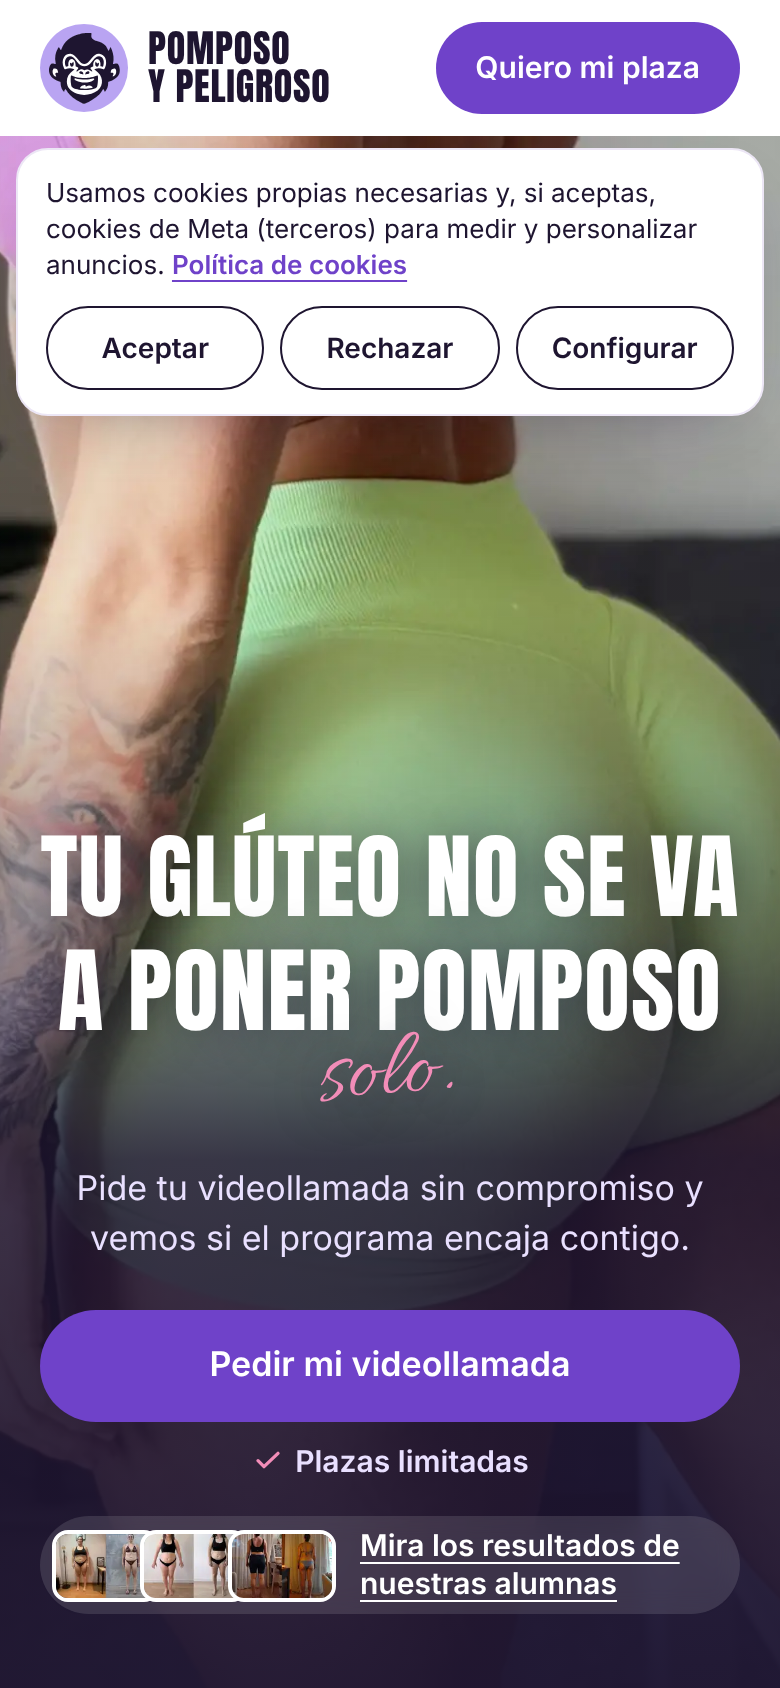
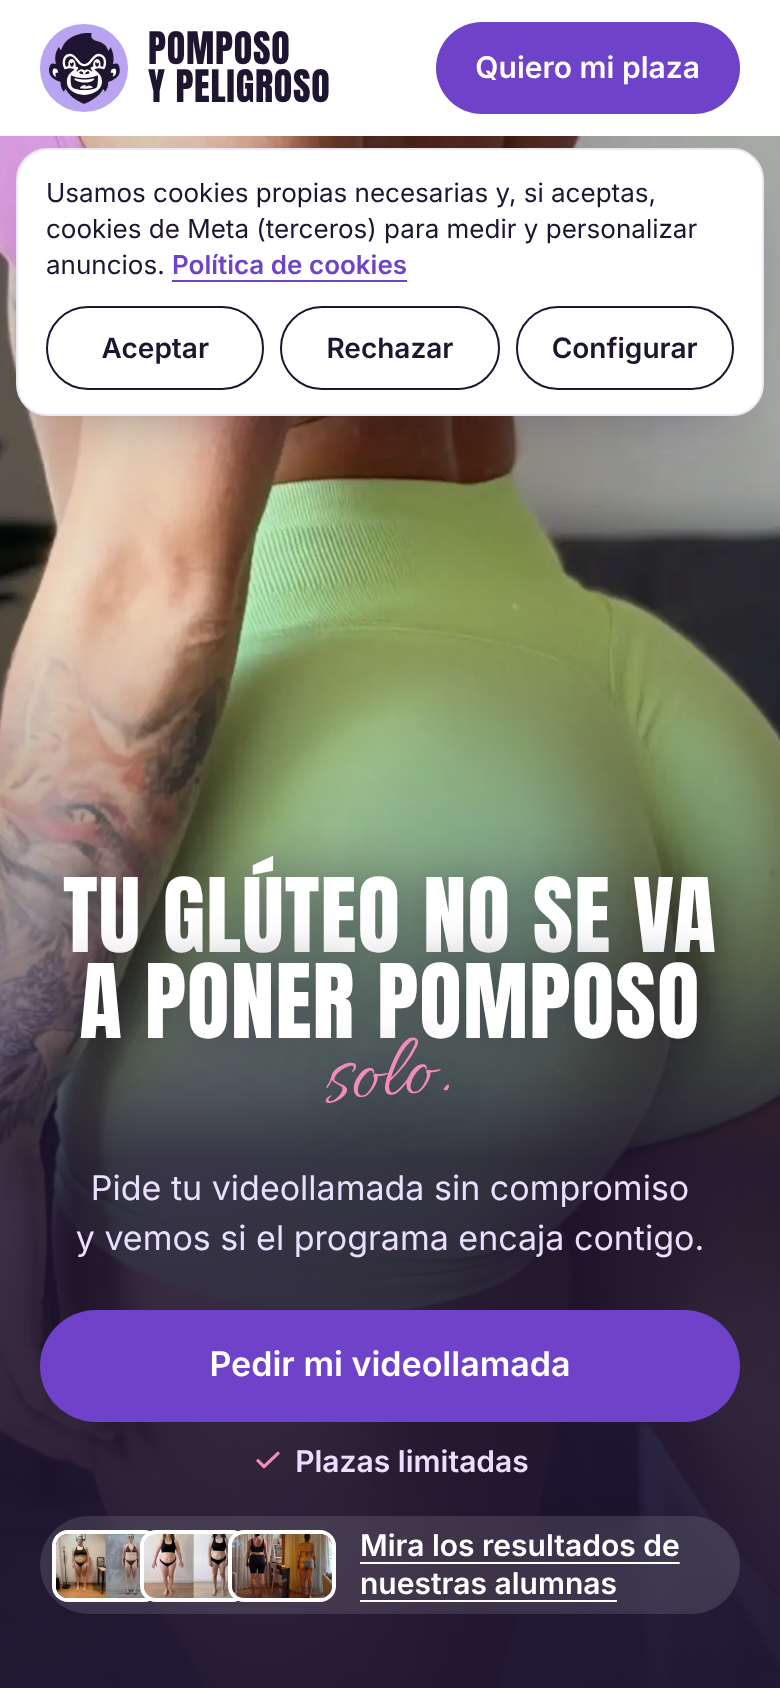
Hero sin saltos al cargar las fuentes: el titular espera a Anton y Allura
En producción el cambio de fuente del titular movía el hero (CLS de 0,008 a
0,014 en escritorio y hasta 0,07 en la versión de cierre en móvil). Ahora el
titular se pinta cuando sus fuentes están listas (máximo 1,2 s) y el de cierre
va en dos líneas fijas. Prueba nueva con fuentes lentas.

Claude-Session: https://claude.ai/code/session_01SZst7iHLrS1DCv7LNHir6L

Changed region(s): [[0.0615, 0.4621, 0.9538, 0.6469], [0.0923, 0.6777, 0.8923, 0.7701]]

diff --git a/README.md b/README.md
@@ -124,7 +124,7 @@ Tras cambiar una variable hay que volver a desplegar (Deployments → Redeploy) 
 - **Antes de enviar no hay salidas:** ni WhatsApp, ni teléfono, ni email, ni Instagram en la home, la barra fija móvil (un solo botón, al formulario), el footer (marca, enlaces internos, legales, "Configurar cookies" y un CTA al formulario) ni las preguntas frecuentes ("¿Otra duda? Déjanos tu WhatsApp y te la resolvemos" lleva al formulario). Las legales se abren en pestaña nueva y en ellas el contacto va como texto.
 - **Después de enviar:** la tarjeta muestra "Gracias, {nombre}. Te abrimos WhatsApp para que nos escribas ya." con el botón "Abrir WhatsApp". En móvil se abre sola a los 1,5 s (nunca antes de 800 ms desde el `Lead`) con `window.location.href`; en escritorio, solo con el botón (en pestaña nueva). El mensaje resume la solicitud (nombre, edad y experiencia) y añade "Tengo una duda: " si se llegó desde la pregunta de las FAQ. Al volver atrás o recargar se sigue viendo el estado de gracias.
 - **Aviso de error:** si el envío falla por red, el botón de WhatsApp del aviso lleva todos los datos del formulario (lo genera `form.ts`; el HTML no lleva ningún `wa.me`).
-- **Hero según el anuncio:** un script en el `<head>` (`src/layouts/Base.astro`) lee `utm_content` y, si no encaja, `utm_campaign`, y pone `data-ad` en `<html>` antes del primer pintado (se recuerda en la sesión con `pyp_ad_variant`). `Hero.astro` pinta las dos versiones y el CSS muestra la activa, sin saltos. Versiones: `descubrir` (por defecto y campañas con "DESCUBRIR" o "TOFU": el hero de siempre) y `cierre` (campañas con "CIERRE", "RETARGETING", "REMARKETING", "MOFU" o "BOFU": "Tu glúteo no se va a poner pomposo solo.", "Pide tu videollamada sin compromiso..." y "Pedir mi videollamada"). Si la campaña de cierre se llama de otra forma, añade la palabra en `src/data/ad-variants.ts`. En ese archivo está también la tabla de preselección de edad o experiencia por anuncio, vacía hasta conocer los nombres.
+- **Hero según el anuncio:** un script en el `<head>` (`src/layouts/Base.astro`) lee `utm_content` y, si no encaja, `utm_campaign`, y pone `data-ad` en `<html>` antes del primer pintado (se recuerda en la sesión con `pyp_ad_variant`). `Hero.astro` pinta las dos versiones y el CSS muestra la activa, sin saltos. El titular espera a sus fuentes (Anton y Allura, como mucho 1,2 s, clase `fonts-pending`) para que el cambio de fuente no mueva nada; el de cierre va en dos líneas fijas por el mismo motivo. Versiones: `descubrir` (por defecto y campañas con "DESCUBRIR" o "TOFU": el hero de siempre) y `cierre` (campañas con "CIERRE", "RETARGETING", "REMARKETING", "MOFU" o "BOFU": "Tu glúteo no se va a poner pomposo solo.", "Pide tu videollamada sin compromiso..." y "Pedir mi videollamada"). Si la campaña de cierre se llama de otra forma, añade la palabra en `src/data/ad-variants.ts`. En ese archivo está también la tabla de preselección de edad o experiencia por anuncio, vacía hasta conocer los nombres.
 
 ## Google Sheets + Apps Script
 

diff --git a/source/qa/INFORME-QA.md b/source/qa/INFORME-QA.md
@@ -10,6 +10,7 @@ Resultados (todo en local sobre el build de producción, con el Apps Script, `/a
 - `npm run test:e2e` (Playwright, 390x844 con el user agent de Instagram en iPhone y 1440x900): 47 pruebas en verde. Cubren el payload idéntico a la referencia aceptando y rechazando cookies, los UTM tras recargar, 1 `Lead` con el mismo `event_id` que la API de conversiones, 0 eventos de navegador sin consentimiento pero sí API de conversiones, `FormStep` sin repetir, `FormError`, reintentos sin `Lead` doble, errores del servidor sin reintento, WhatsApp automático en móvil antes de 2 s y al menos 800 ms después del `Lead`, sin redirección en escritorio, el mensaje de las FAQ, el estado de gracias al volver, las tres versiones del hero con CLS 0 y el botón en la primera pantalla con el aviso de cookies, la barra móvil de un botón, las legales en pestaña nueva sin perder el formulario y el aviso de cookies.
 - `vercel build` local: las páginas siguen siendo estáticas y `api/lead-capi` sale como función (Node 24). Sin `META_CAPI_TOKEN` responde 204 sin llamar a Meta.
 - Lighthouse en la home, mismo servidor para la versión anterior y la nueva: móvil 99-100 / 100 / 100 / 100 (antes 99 / 100 / 100 / 92, CLS 0,003), escritorio 100 / 100 / 100 / 100 (antes 100 / 100 / 100 / 92, CLS 0,007). El SEO sube a 100 por el texto del enlace del aviso ("Política de cookies") y el CLS baja a 0 al fijar el alto del aviso.
+- Revisión en producción: el CLS de escritorio era 0,008 a 0,014 por el cambio de fuente del titular (las fuentes llegan después del primer pintado con la red real). Corregido: el titular del hero espera a sus fuentes (máximo 1,2 s) y el de cierre va en dos líneas fijas. Con las fuentes retrasadas 400 a 900 ms el CLS queda en 0 en 390 y 1440 px.
 - Accesibilidad (axe, `scripts/qa-links.mjs`): sin violaciones en las 5 páginas. Anchos (`scripts/qa-widths.mjs`): 24/24 sin scroll lateral ni textos cortados. iPhone emulado (`scripts/qa-iphone.mjs`): LCP 0,9 a 1 s, CTA visible y aviso sin tapar el CTA en los cuatro modelos.
 - Capturas en `capturas/e2e-390-*.png` y `capturas/e2e-1440-*.png`: primer pantallazo (versión descubrir y cierre), aviso de cookies, cada paso, y estado de gracias.
 
